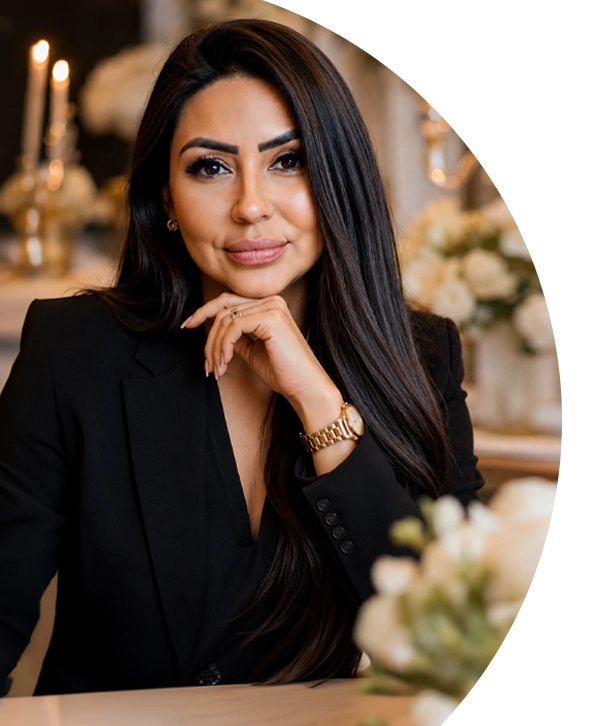
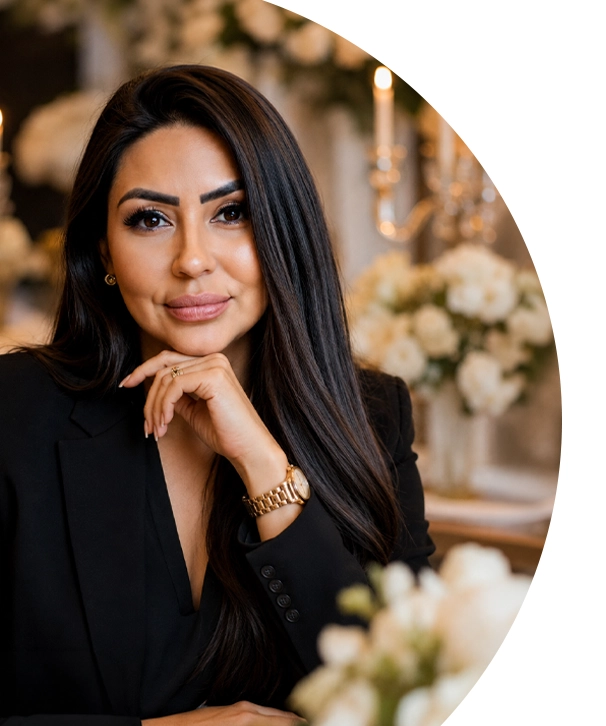
feat: implement AboutUsSection component with founder story and add corresponding profile image

diff --git a/src/components/AboutUsSection.tsx b/src/components/AboutUsSection.tsx
@@ -37,7 +37,7 @@ const HeartIcon = ({ className = "w-6 h-6" }: { className?: string }) => (
 );
 
 const ClipboardIcon = ({ className = "w-6 h-6" }: { className?: string }) => (
-  <svg viewBox="0 0 24 24" fill="none" stroke="currentColor" strokeWidth="1.5" strokeLinecap="round" strokeLinejoin="round" className={className}>
+  <svg viewBox="0 0 24 24" fill="none" stroke="currentColor" strokeWidth="1.2" strokeLinecap="round" strokeLinejoin="round" className={className}>
     <path d="M16 4h2a2 2 0 0 1 2 2v14a2 2 0 0 1-2 2H6a2 2 0 0 1-2-2V6a2 2 0 0 1 2-2h2" />
     <rect x="8" y="2" width="8" height="4" rx="1" ry="1" />
     <line x1="9" y1="12" x2="15" y2="12" />
@@ -47,7 +47,7 @@ const ClipboardIcon = ({ className = "w-6 h-6" }: { className?: string }) => (
 );
 
 const CalendarIcon = ({ className = "w-6 h-6" }: { className?: string }) => (
-  <svg viewBox="0 0 24 24" fill="none" stroke="currentColor" strokeWidth="1.5" strokeLinecap="round" strokeLinejoin="round" className={className}>
+  <svg viewBox="0 0 24 24" fill="none" stroke="currentColor" strokeWidth="1.2" strokeLinecap="round" strokeLinejoin="round" className={className}>
     <rect x="3" y="4" width="18" height="18" rx="2" ry="2" />
     <line x1="16" y1="2" x2="16" y2="6" />
     <line x1="8" y1="2" x2="8" y2="6" />
@@ -61,7 +61,7 @@ const CalendarIcon = ({ className = "w-6 h-6" }: { className?: string }) => (
 );
 
 const LightbulbIcon = ({ className = "w-6 h-6" }: { className?: string }) => (
-  <svg viewBox="0 0 24 24" fill="none" stroke="currentColor" strokeWidth="1.5" strokeLinecap="round" strokeLinejoin="round" className={className}>
+  <svg viewBox="0 0 24 24" fill="none" stroke="currentColor" strokeWidth="1.2" strokeLinecap="round" strokeLinejoin="round" className={className}>
     <path d="M9 18h6" />
     <path d="M10 22h4" />
     <path d="M15.09 14c.18-.98.65-1.74 1.41-2.5A4.65 4.65 0 0 0 18 8 6 6 0 0 0 6 8c0 1.55.59 2.97 1.5 4 .76.76 1.23 1.52 1.41 2.5" />
@@ -69,7 +69,7 @@ const LightbulbIcon = ({ className = "w-6 h-6" }: { className?: string }) => (
 );
 
 const HandshakeIcon = ({ className = "w-6 h-6" }: { className?: string }) => (
-  <svg viewBox="0 0 24 24" fill="none" stroke="currentColor" strokeWidth="1.5" strokeLinecap="round" strokeLinejoin="round" className={className}>
+  <svg viewBox="0 0 24 24" fill="none" stroke="currentColor" strokeWidth="1.2" strokeLinecap="round" strokeLinejoin="round" className={className}>
     <path d="m11 17 2 2a1 1 0 0 0 1.4 0l4.3-4.3a1 1 0 0 0 0-1.4l-2.6-2.6a1 1 0 0 0-1.4 0l-2.4 2.4" />
     <path d="m13 14 1.7-1.7a1 1 0 0 0 0-1.4L12 8.3a1 1 0 0 0-1.4 0l-4.3 4.3a1 1 0 0 0 0 1.4l2.6 2.6a1 1 0 0 0 1.4 0L12 15" />
     <path d="M18 11.5V4a2 2 0 0 0-2-2H4a2 2 0 0 0-2 2v12a2 2 0 0 0 2 2h4.5" />
@@ -77,26 +77,26 @@ const HandshakeIcon = ({ className = "w-6 h-6" }: { className?: string }) => (
 );
 
 const StarIcon = ({ className = "w-6 h-6" }: { className?: string }) => (
-  <svg viewBox="0 0 24 24" fill="none" stroke="currentColor" strokeWidth="1.5" strokeLinecap="round" strokeLinejoin="round" className={className}>
+  <svg viewBox="0 0 24 24" fill="none" stroke="currentColor" strokeWidth="1.2" strokeLinecap="round" strokeLinejoin="round" className={className}>
     <polygon points="12 2 15.09 8.26 22 9.27 17 14.14 18.18 21.02 12 17.77 5.82 21.02 7 14.14 2 9.27 8.91 8.26 12 2" />
   </svg>
 );
 
 const LaurelWreathIcon = ({ className = "w-6 h-6" }: { className?: string }) => (
-  <svg viewBox="0 0 24 24" fill="none" stroke="currentColor" strokeWidth="1.5" strokeLinecap="round" strokeLinejoin="round" className={className}>
-    <path d="M6 15A9 9 0 0 1 3 8a9 9 0 0 1 5-4.5" />
-    <path d="M18 15a9 9 0 0 0 3-7 9 9 0 0 0-5-4.5" />
-    <path d="M12 22a10 10 0 0 1-6-3" />
-    <path d="M12 22a10 10 0 0 0 6-3" />
-    <circle cx="12" cy="12" r="3" />
+  <svg viewBox="0 0 24 24" fill="none" stroke="currentColor" strokeWidth="1.2" strokeLinecap="round" strokeLinejoin="round" className={className}>
+    <circle cx="12" cy="8.5" r="5" />
+    <circle cx="12" cy="8.5" r="2" />
+    <path d="M8.5 13L7 21L12 18.5L17 21L15.5 13" />
   </svg>
 );
 
 const GlobeIcon = ({ className = "w-6 h-6" }: { className?: string }) => (
-  <svg viewBox="0 0 24 24" fill="none" stroke="currentColor" strokeWidth="1.5" strokeLinecap="round" strokeLinejoin="round" className={className}>
-    <circle cx="12" cy="12" r="10" />
-    <line x1="2" y1="12" x2="22" y2="12" />
-    <path d="M12 2a15.3 15.3 0 0 1 4 10 15.3 15.3 0 0 1-4 10 15.3 15.3 0 0 1-4-10 15.3 15.3 0 0 1 4-10z" />
+  <svg viewBox="0 0 24 24" fill="none" stroke="currentColor" strokeWidth="1.2" strokeLinecap="round" strokeLinejoin="round" className={className}>
+    <circle cx="12" cy="12" r="9" />
+    <path d="M3.6 9h16.8" />
+    <path d="M3.6 15h16.8" />
+    <path d="M11.5 3a17 17 0 0 0 0 18" />
+    <path d="M12.5 3a17 17 0 0 1 0 18" />
   </svg>
 );
 
@@ -138,21 +138,21 @@ export const AboutUsSection: React.FC = () => {
             {/* Top Decorative Header inside Center Column - MATCHING PHOTO 1 EXACTLY */}
             <div className="text-center mb-6">
               <div className="flex items-center justify-center gap-3.5 mb-2">
-                <span className="h-[1px] w-16 sm:w-20 bg-[#B88E3E]/70"></span>
+                <span className="h-[1px] w-20 sm:w-24 bg-[#B88E3E]/70"></span>
                 <span className="text-[11px] sm:text-xs font-semibold tracking-[0.35em] uppercase text-[#B88E3E]">
                   ABOUT US
                 </span>
-                <span className="h-[1px] w-16 sm:w-20 bg-[#B88E3E]/70"></span>
+                <span className="h-[1px] w-20 sm:w-24 bg-[#B88E3E]/70"></span>
               </div>
 
-              {/* Flourish Ornament under ABOUT US - Matching Photo 1 */}
+              {/* Flourish Ornament under ABOUT US - Matching Width of Top Row */}
               <div className="flex justify-center mb-3">
-                <svg viewBox="0 0 100 12" fill="none" className="w-24 h-3">
-                  <line x1="0" y1="6" x2="42" y2="6" stroke="#B88E3E" strokeWidth="1" strokeOpacity="0.75" />
-                  <circle cx="43.5" cy="6" r="1.2" fill="#B88E3E" />
-                  <path d="M50 2L54 6L50 10L46 6Z" fill="#B88E3E" />
-                  <circle cx="56.5" cy="6" r="1.2" fill="#B88E3E" />
-                  <line x1="58" y1="6" x2="100" y2="6" stroke="#B88E3E" strokeWidth="1" strokeOpacity="0.75" />
+                <svg viewBox="0 0 200 12" fill="none" className="w-56 sm:w-64 h-3">
+                  <line x1="0" y1="6" x2="92" y2="6" stroke="#B88E3E" strokeWidth="1" strokeOpacity="0.75" />
+                  <circle cx="93.5" cy="6" r="1.2" fill="#B88E3E" />
+                  <path d="M100 2L104 6L100 10L96 6Z" fill="#B88E3E" />
+                  <circle cx="106.5" cy="6" r="1.2" fill="#B88E3E" />
+                  <line x1="108" y1="6" x2="200" y2="6" stroke="#B88E3E" strokeWidth="1" strokeOpacity="0.75" />
                 </svg>
               </div>
 
@@ -373,13 +373,13 @@ export const AboutUsSection: React.FC = () => {
           style={{ backgroundImage: "url('/dark-rose-bg.png')" }}
         />
 
-        <div className="relative w-full grid grid-cols-1 lg:grid-cols-12 gap-10 items-center">
-          {/* Left Column: Quote (5 cols) */}
-          <div className="lg:col-span-5 flex items-start space-x-4">
-            <span className="font-serif text-6xl md:text-7xl text-[#C5A059] leading-none select-none -mt-2">
+        <div className="relative w-full grid grid-cols-1 lg:grid-cols-12 gap-8 lg:gap-10 items-center">
+          {/* Left Column: Quote (4 cols) */}
+          <div className="lg:col-span-4 flex items-start space-x-3.5">
+            <span className="font-serif text-5xl md:text-6xl text-[#C5A059] leading-none select-none -mt-1">
               “
             </span>
-            <p className="text-lg md:text-2xl font-serif text-neutral-100 font-light leading-relaxed">
+            <p className="text-base md:text-xl font-serif text-neutral-100 font-light leading-relaxed">
               My mission is to turn your vision into an experience that feels{' '}
               <span className="italic text-[#D4AF37] font-serif">effortless</span> for you and{' '}
               <span className="italic text-[#D4AF37] font-serif">unforgettable</span> for your guests.
@@ -391,56 +391,56 @@ export const AboutUsSection: React.FC = () => {
             <div className="w-[1px] bg-gradient-to-b from-transparent via-[#C5A059]/40 to-transparent" />
           </div>
 
-          {/* Right Column: 4 Stat Boxes (6 cols) */}
-          <div className="lg:col-span-6 grid grid-cols-2 sm:grid-cols-4 gap-6 text-center">
+          {/* Right Column: 4 Stat Boxes (7 cols) */}
+          <div className="lg:col-span-7 grid grid-cols-2 sm:grid-cols-4 gap-0 text-center items-stretch divide-y sm:divide-y-0 sm:divide-x divide-[#C5A059]/25">
             {/* Stat 1 */}
-            <div className="space-y-1 sm:border-r border-white/10 sm:pr-4">
-              <div className="flex justify-center text-[#C5A059] mb-2">
-                <LaurelWreathIcon className="w-6 h-6" />
+            <div className="flex flex-col items-center justify-center space-y-1.5 px-3 lg:px-4 py-2">
+              <div className="flex justify-center text-[#C5A059] mb-1">
+                <LaurelWreathIcon className="w-6 h-6 sm:w-7 sm:h-7" />
               </div>
-              <div className="text-2xl md:text-3xl font-serif text-white font-normal tracking-wide">
+              <div className="text-base sm:text-lg md:text-xl lg:text-[22px] font-serif text-white font-normal tracking-wide whitespace-nowrap">
                 250+
               </div>
-              <div className="text-[10px] font-semibold tracking-[0.2em] text-[#C5A059] uppercase">
+              <div className="text-[9px] sm:text-[10px] font-semibold tracking-[0.2em] text-[#C5A059] uppercase whitespace-nowrap">
                 EVENTS DELIVERED
               </div>
             </div>
 
             {/* Stat 2 */}
-            <div className="space-y-1 sm:border-r border-white/10 sm:px-4">
-              <div className="flex justify-center text-[#C5A059] mb-2">
-                <UsersIcon className="w-6 h-6" />
+            <div className="flex flex-col items-center justify-center space-y-1.5 px-3 lg:px-4 py-2">
+              <div className="flex justify-center text-[#C5A059] mb-1">
+                <UsersIcon className="w-6 h-6 sm:w-7 sm:h-7" />
               </div>
-              <div className="text-2xl md:text-3xl font-serif text-white font-normal tracking-wide">
+              <div className="text-base sm:text-lg md:text-xl lg:text-[22px] font-serif text-white font-normal tracking-wide whitespace-nowrap">
                 20,000+
               </div>
-              <div className="text-[10px] font-semibold tracking-[0.2em] text-[#C5A059] uppercase">
+              <div className="text-[9px] sm:text-[10px] font-semibold tracking-[0.2em] text-[#C5A059] uppercase whitespace-nowrap">
                 HAPPY GUESTS
               </div>
             </div>
 
             {/* Stat 3 */}
-            <div className="space-y-1 sm:border-r border-white/10 sm:px-4">
-              <div className="flex justify-center text-[#C5A059] mb-2">
-                <GlobeIcon className="w-6 h-6" />
+            <div className="flex flex-col items-center justify-center space-y-1.5 px-3 lg:px-4 py-2">
+              <div className="flex justify-center text-[#C5A059] mb-1">
+                <GlobeIcon className="w-6 h-6 sm:w-7 sm:h-7" />
               </div>
-              <div className="text-xl md:text-2xl font-serif text-white font-normal tracking-wide">
+              <div className="text-base sm:text-lg md:text-xl lg:text-[22px] font-serif text-white font-normal tracking-wide whitespace-nowrap">
                 UAE & BEYOND
               </div>
-              <div className="text-[10px] font-semibold tracking-[0.2em] text-[#C5A059] uppercase">
+              <div className="text-[9px] sm:text-[10px] font-semibold tracking-[0.2em] text-[#C5A059] uppercase whitespace-nowrap">
                 GLOBAL REACH
               </div>
             </div>
 
             {/* Stat 4 */}
-            <div className="space-y-1 sm:pl-4">
-              <div className="flex justify-center text-[#C5A059] mb-2">
-                <DiamondIcon className="w-6 h-6" />
+            <div className="flex flex-col items-center justify-center space-y-1.5 px-3 lg:px-4 py-2">
+              <div className="flex justify-center text-[#C5A059] mb-1">
+                <DiamondIcon className="w-6 h-6 sm:w-7 sm:h-7" />
               </div>
-              <div className="text-2xl md:text-3xl font-serif text-white font-normal tracking-wide">
+              <div className="text-base sm:text-lg md:text-xl lg:text-[22px] font-serif text-white font-normal tracking-wide whitespace-nowrap">
                 10+ YEARS
               </div>
-              <div className="text-[10px] font-semibold tracking-[0.2em] text-[#C5A059] uppercase">
+              <div className="text-[9px] sm:text-[10px] font-semibold tracking-[0.2em] text-[#C5A059] uppercase whitespace-nowrap">
                 OF EXPERIENCE
               </div>
             </div>
